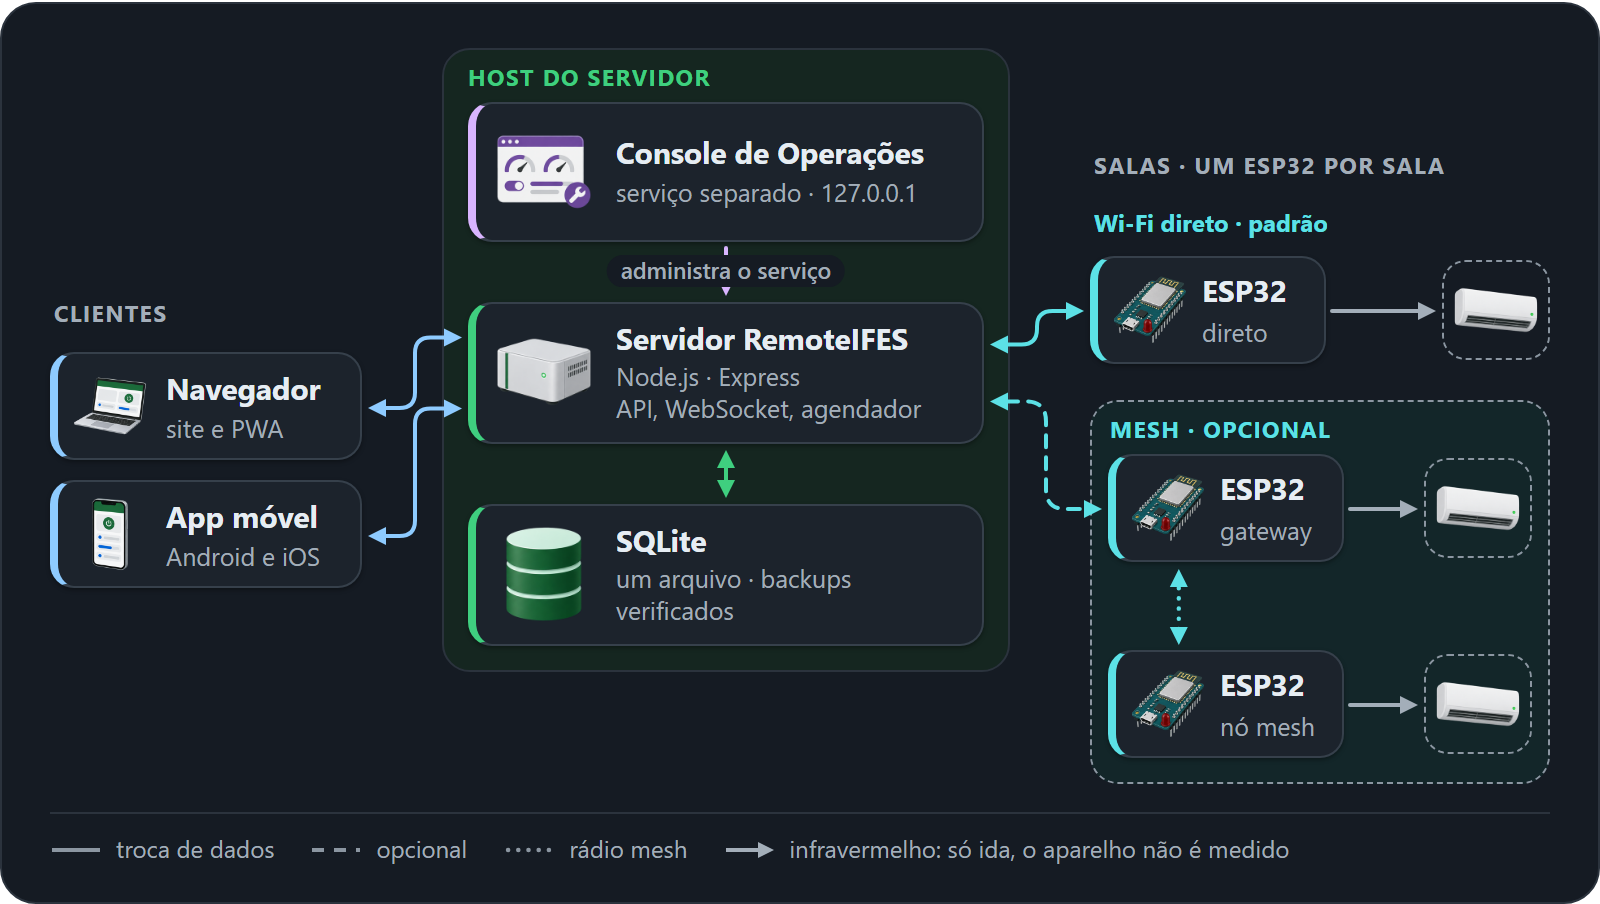
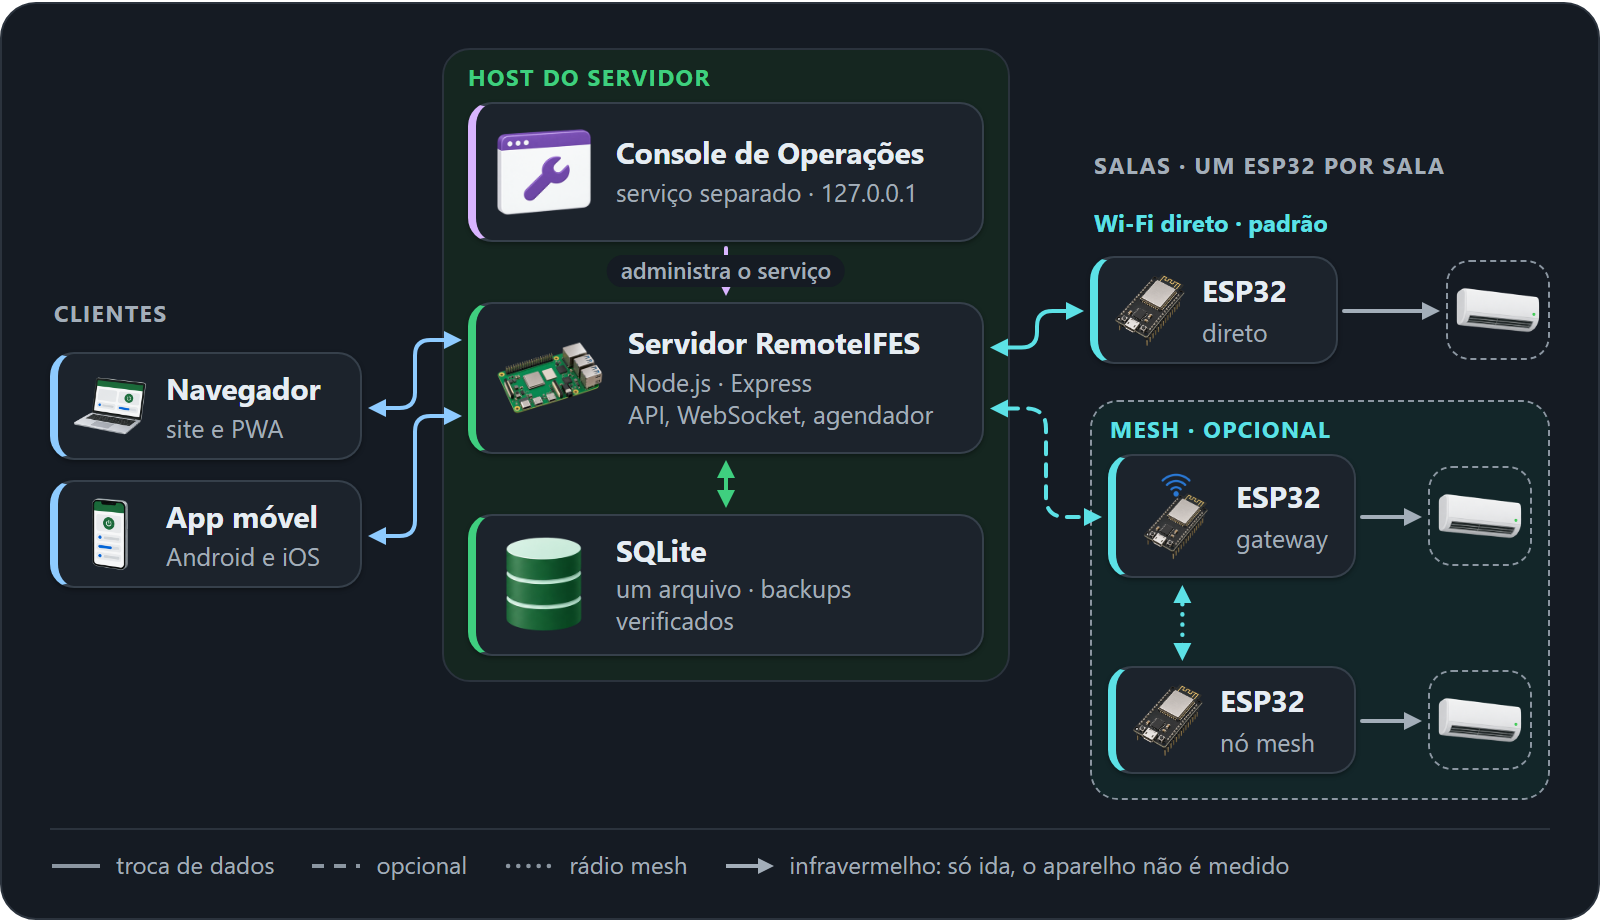
Use recognizable hardware in the README figures
Replace the generic server box with a simplified Raspberry Pi, the
ESP32 module with a simplified ESP32 development board, and the
ceiling access point with the same board carrying a separate Wi-Fi
symbol above it, used for the mesh gateway (root). Simplify the
Operations Console module to one window with one wrench.

The gateway cards use the new root module, the direct Wi-Fi caption
uses a vector Wi-Fi glyph, and the credential badges move to the card
corners so no board illustration carries extra symbols. The browser,
phone, database and air-conditioner modules are unchanged.

diff --git a/docs/readme-assets/src/device-networking.html b/docs/readme-assets/src/device-networking.html
@@ -31,13 +31,16 @@
   .placa { padding: 5px 9px 5px 5px; gap: 6px; }
   .placa .titulo { font-size: 14px; }
   .placa .sub { font-size: 11.5px; white-space: nowrap; }
-  .placa .quadro { position: relative; flex: 0 0 auto; }
+  /* The credential badge sits on the card corner, outside the board illustration. */
+  .placa .quadro { position: static; flex: 0 0 auto; }
   .placa .quadro .ic {
-    position: absolute; right: -3px; bottom: -2px;
+    position: absolute; right: -7px; top: -7px;
     width: 15px; height: 15px; padding: 2px;
     color: var(--petroleo); background: var(--cartao);
     border: 1px solid var(--cartao-borda); border-radius: 50%;
   }
+  .modulo.raiz { width: 48px; height: 48px; }
+  .modulo.pi { width: 60px; height: 60px; }
   .linha-gateway { display: grid; grid-template-columns: 1fr 1fr; justify-items: center; align-items: center; padding: 0 11px; }
   #repassa { justify-self: start; margin-left: 2px; }
   .sem-wifi {
@@ -64,7 +67,7 @@
 <body>
 <div id="tela">
   <div class="cartao tom-verde" id="servidor">
-    <img class="modulo" src="../modules/server.png" alt="">
+    <img class="modulo pi" src="../modules/server.png" alt="">
     <div><div class="titulo">Servidor RemoteIFES</div><div class="sub">autentica cada placa pela credencial dela, venha direto ou pelo gateway</div></div>
   </div>
 
@@ -86,7 +89,7 @@
           </div>
         </div>
         <div class="legenda-painel">
-          <img class="modulo p" src="../modules/wifi-ap.png" alt="">
+          <svg class="ic" style="width:22px;height:22px;color:var(--petroleo)"><use href="#x-wifi"/></svg>
           <div><div class="titulo">Wi-Fi direto · padrão</div><div class="sub">cada placa com Wi-Fi e WebSocket próprios</div></div>
         </div>
       </section>
@@ -100,7 +103,7 @@
     <section class="painel opcional tom-petroleo" id="malha">
       <div class="linha-gateway">
         <div class="cartao tom-petroleo placa" id="gateway">
-          <span class="quadro"><img class="modulo p" src="../modules/esp32.png" alt=""><svg class="ic"><use href="#i-chave"/></svg></span>
+          <span class="quadro"><img class="modulo p raiz" src="../modules/wifi-ap.png" alt=""><svg class="ic"><use href="#i-chave"/></svg></span>
           <div><div class="titulo">gateway</div><div class="sub">sala D · raiz</div></div>
         </div>
         <span class="pilula tom-petroleo" id="repassa"><svg class="ic p"><use href="#x-repassa"/></svg>repassa sem ler</span>

diff --git a/docs/readme-assets/src/architecture-overview.html b/docs/readme-assets/src/architecture-overview.html
@@ -21,9 +21,11 @@
   #salas { grid-column: 5; margin-top: 52px; gap: 8px; }
   .subcabecalho { font-size: 12px; font-weight: 650; color: var(--petroleo); margin: 4px 0 0 2px; }
   .linha-sala { display: flex; align-items: center; justify-content: space-between; }
-  .linha-sala .cartao { width: 118px; padding: 6px 8px 6px 6px; gap: 6px; }
+  .linha-sala .cartao { width: 124px; padding: 6px 8px 6px 6px; gap: 6px; }
+  .modulo.pi { width: 58px; height: 58px; }
+  .modulo.raiz { width: 48px; height: 48px; }
   .ac {
-    width: 54px; height: 50px; display: grid; place-items: center;
+    width: 52px; height: 50px; display: grid; place-items: center;
     border: 1.5px dashed var(--linha); border-radius: 12px;
   }
   .ac img { width: 46px; height: 46px; object-fit: contain; }
@@ -54,7 +56,7 @@
         <div><div class="titulo">Console de Operações</div><div class="sub">serviço separado · 127.0.0.1</div></div>
       </div>
       <div class="cartao tom-verde" id="servidor">
-        <img class="modulo" src="../modules/server.png" alt="">
+        <img class="modulo pi" src="../modules/server.png" alt="">
         <div><div class="titulo">Servidor RemoteIFES</div><div class="sub">Node.js · Express<br>API, WebSocket, agendador</div></div>
       </div>
       <div class="cartao tom-verde" id="sqlite">
@@ -77,7 +79,7 @@
         <div class="rotulo-grupo">Mesh · opcional</div>
         <div class="linha-sala">
           <div class="cartao tom-petroleo" id="gateway">
-            <img class="modulo p" src="../modules/esp32.png" alt="">
+            <img class="modulo p raiz" src="../modules/wifi-ap.png" alt="">
             <div><div class="titulo">ESP32</div><div class="sub papel">gateway</div></div>
           </div>
           <div class="ac" id="ac2"><img src="../modules/air-conditioner.png" alt=""></div>
